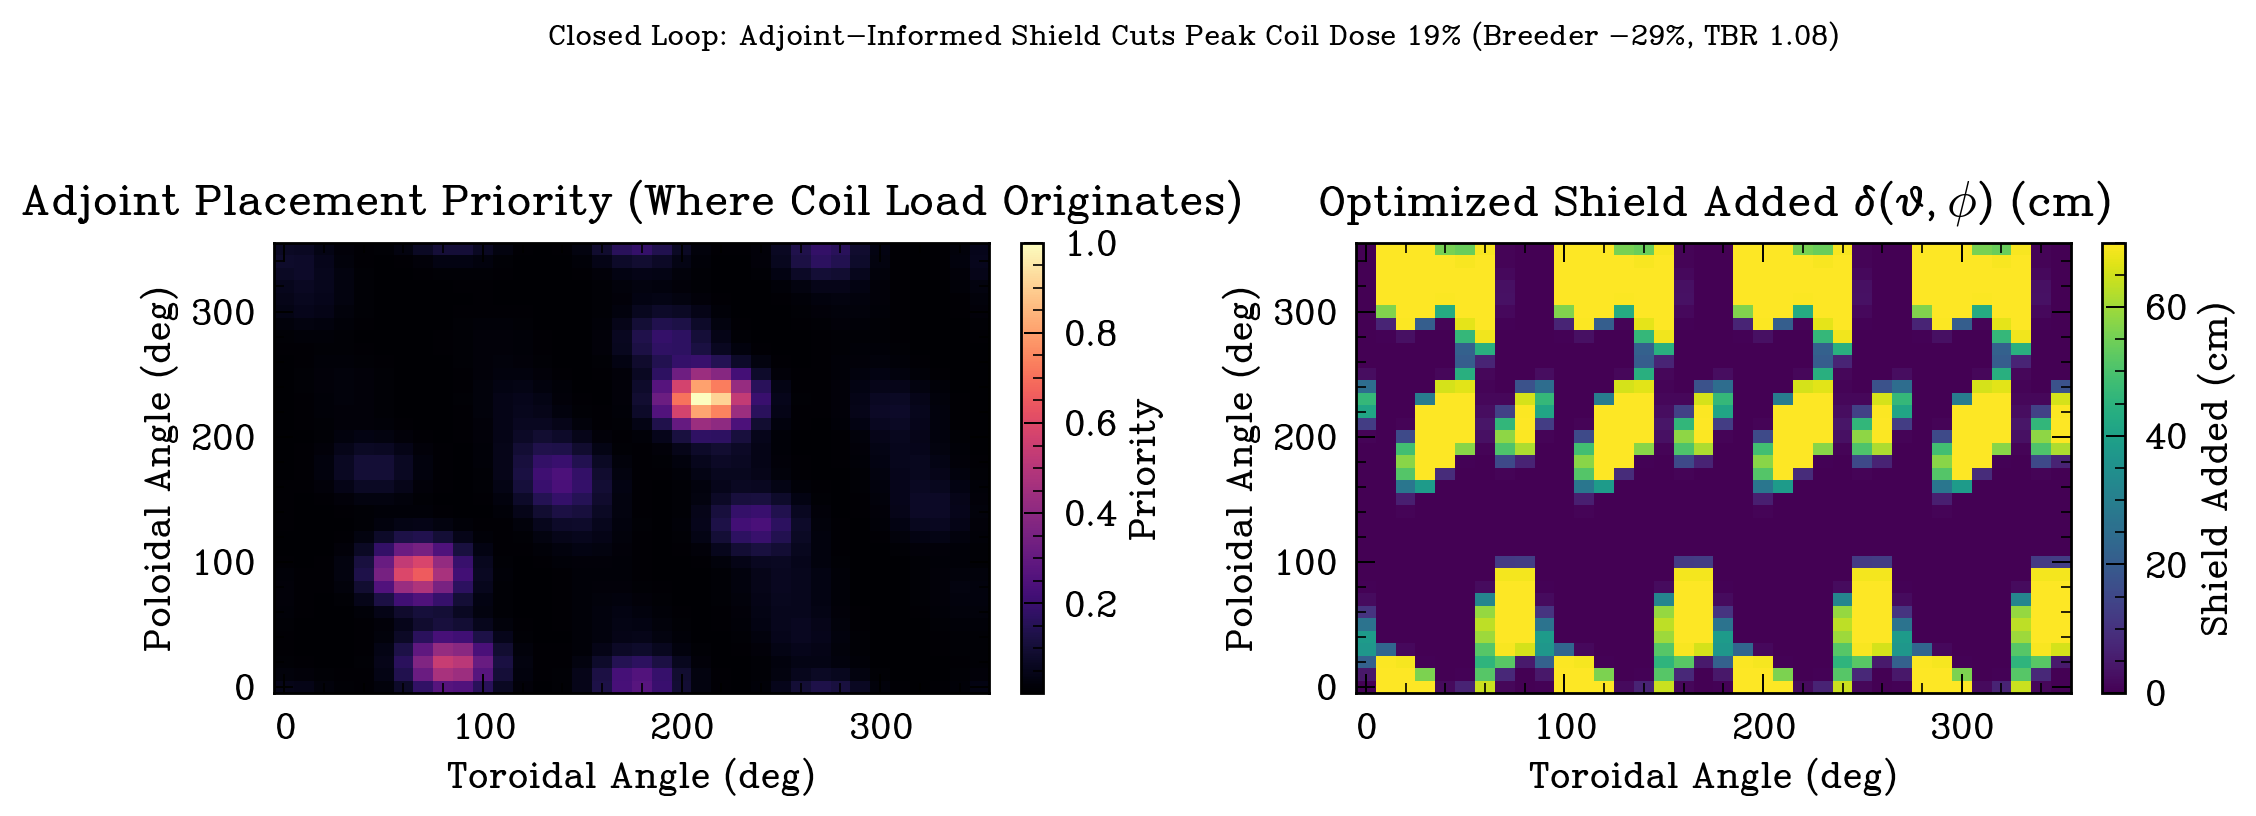
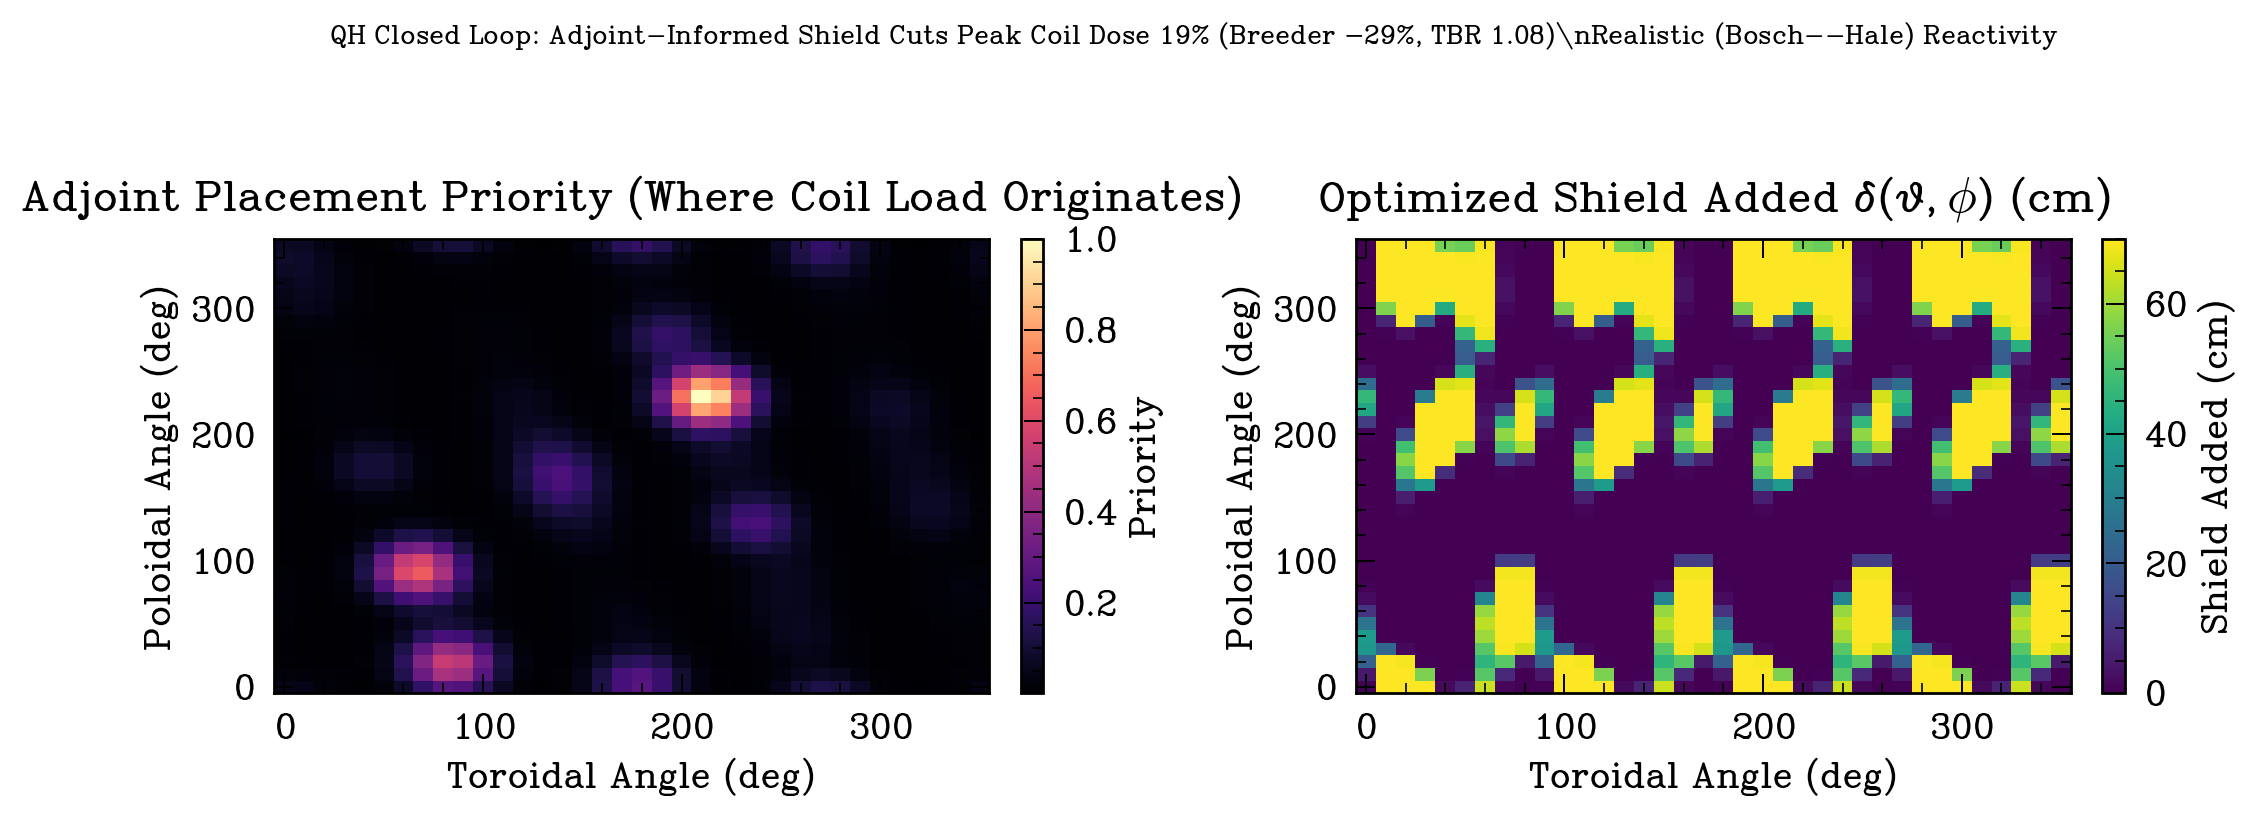
spf_prototype: never use uniform emissivity silently (self-reporting assumptions)
Process fix so a non-physical modeling assumption can't slip through unflagged:
- plasma_source_on_mesh emits a loud one-time NOTE whenever UNIFORM emissivity is
  used (it is ~3x optimistic vs core-peaked Bosch-Hale on QH), so it is never silent.
- the closed-loop figure title now stamps the reactivity profile (Realistic
  Bosch-Hale vs UNIFORM Non-Physical) so every artifact self-documents its
  assumption -- no need to interrogate a result to learn what source it assumed.
13/13 tests pass.

diff --git a/spf_prototype/shield_opt/adjoint_closed_loop.py b/spf_prototype/shield_opt/adjoint_closed_loop.py
@@ -112,12 +112,12 @@ def main():
           f"(breeder sacrificed {100*a['sacrificed']:.1f}% vs {100*u['sacrificed']:.1f}%).")
 
     if args.fig:
-        _figure(a, tf, basis, P, tor, pol, args.fig)
+        _figure(a, tf, basis, P, tor, pol, args.fig, args.emissivity)
         print("  wrote", args.fig)
     return a, u
 
 
-def _figure(a, tf, basis, P, tor, pol, out):
+def _figure(a, tf, basis, P, tor, pol, out, emissivity):
     import smplotlib  # noqa: F401  house style before pyplot
     import matplotlib
     matplotlib.use("Agg")
@@ -133,9 +133,11 @@ def _figure(a, tf, basis, P, tor, pol, out):
     ax[1].set_title("Optimized Shield Added $\\delta(\\theta,\\phi)$ (cm)")
     ax[1].set_xlabel("Toroidal Angle (deg)"); ax[1].set_ylabel("Poloidal Angle (deg)")
     fig.colorbar(im1, ax=ax[1], fraction=0.046, pad=0.04, label="Shield Added (cm)")
-    fig.suptitle(f"Closed Loop: Adjoint-Informed Shield Cuts Peak Coil Dose "
+    prof = {"bosch_hale": "Realistic (Bosch--Hale) Reactivity",
+            "uniform": "UNIFORM Emissivity (Non-Physical)"}.get(emissivity, emissivity)
+    fig.suptitle(f"QH Closed Loop: Adjoint-Informed Shield Cuts Peak Coil Dose "
                  f"{100*a['reduction']:.0f}% (Breeder $-${100*a['sacrificed']:.0f}%, "
-                 f"TBR {a['tbr']:.2f})", fontsize=12)
+                 f"TBR {a['tbr']:.2f})\\n{prof}", fontsize=11)
     fig.tight_layout(rect=[0, 0, 1, 0.95])
     fig.savefig(out, dpi=200, bbox_inches="tight")
 

diff --git a/spf_prototype/shield_opt/adjoint_placement.py b/spf_prototype/shield_opt/adjoint_placement.py
@@ -25,6 +25,8 @@ from __future__ import annotations
 
 import numpy as np
 
+_WARNED = {"uniform": False}   # one-time guard so uniform emissivity is never used silently
+
 
 def _voxel_centers(ll, ur, dim):
     return [np.linspace(ll[i], ur[i], dim[i] + 1)[:-1] + 0.5 * (ur[i] - ll[i]) / dim[i]
@@ -48,6 +50,13 @@ def plasma_source_on_mesh(fluxmap, ll, ur, dim, scale=100.0, emissivity="uniform
     Z = fm["Z"] * scale
     phi = fm["phi"]
     w = np.abs(fm["sqrtg"])
+    if emissivity == "uniform" and not _WARNED["uniform"]:
+        import sys
+        print("NOTE: plasma source S(r) uses UNIFORM emissivity (non-physical -- "
+              "over-weights the shaped plasma edge; ~3x optimistic vs core-peaked "
+              "Bosch-Hale on QH). Legitimate only for validation/geometry-isolation "
+              "or matching a uniform-source forward run.", file=sys.stderr, flush=True)
+        _WARNED["uniform"] = True
     if emissivity != "uniform":
         import os
         import sys
